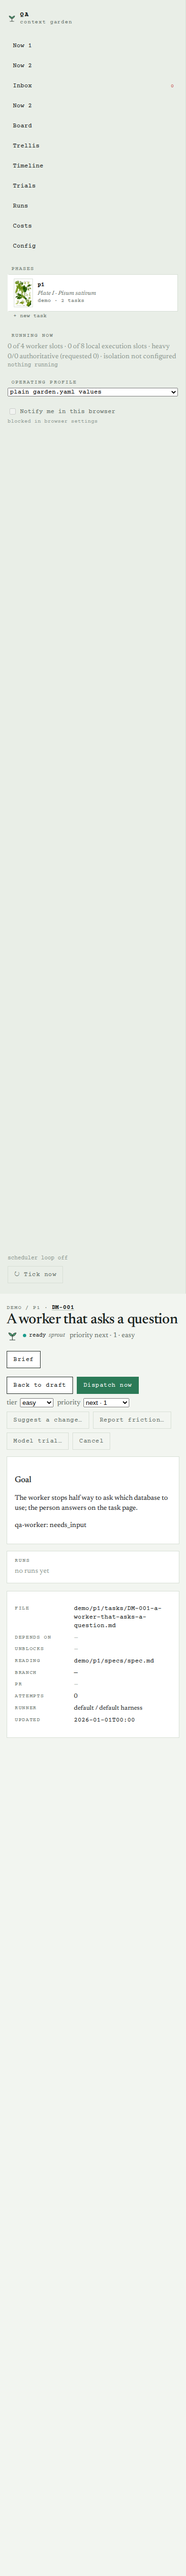
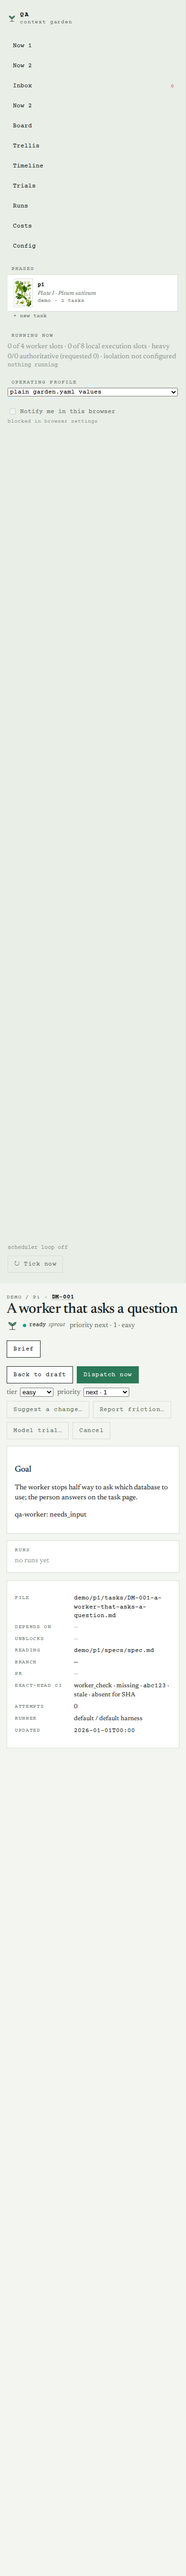
Show stale and absent exact-head status together

Changed region(s): [[0.0308, 0.4978, 0.7692, 0.6844], [0.8, 0.4978, 0.8923, 0.5289], [0.9231, 0.4978, 0.9538, 0.5289]]

diff --git a/docs/design/captures/cg-396/task.html b/docs/design/captures/cg-396/task.html
@@ -321,7 +321,7 @@ pre.log { margin:0; max-height:70vh; overflow:auto; background:var(--surface-2);
 </style>
 
 </head>
-<body class="" data-server-now="2026-09-08T15:36:17+00:00">
+<body class="" data-server-now="2026-09-08T17:08:30+00:00">
 
 <svg width="0" height="0" style="position:absolute" aria-hidden="true"><defs>
 <pattern id="hatch" patternUnits="userSpaceOnUse" width="4" height="4" patternTransform="rotate(45)"><rect width="4" height="4" fill="var(--leaf-tint)"/><line x1="0" y1="0" x2="0" y2="4" stroke="var(--hatch)" stroke-width="0.7"/></pattern>
@@ -443,20 +443,20 @@ pre.log { margin:0; max-height:70vh; overflow:auto; background:var(--surface-2);
     <a href="/trials" class="">Trials</a>
     <a href="/runs" class="">Runs</a>
     <a href="/costs" class="">Costs</a>
-    
+
     <a href="/config" class="">Config</a>
   </nav>
   <div>
     <h4>Phases</h4>
     <a class="drawer " href="/phases/demo/p1"><span class="thumb"><img src="/static/plates/pea-thumb.webp" alt="" width="38" height="58" loading="lazy"></span><span class="k"><b>p1</b><i>Plate I · Pisum sativum</i><span>demo · 2 tasks</span></span></a><a href="/phases/demo/p1#new-task" style="display:block; margin:-5px 0 8px 12px; font:11px var(--mono); color:var(--muted); text-decoration:none">+ new task</a>
-    
-    
+
+
   </div>
   <div class="rail-running">
     <h4>Running now</h4>
     <span class="faint">0 of 4 worker slots · 0 of 8 local execution slots · heavy 0/0 authoritative (requested 0) · isolation not configured</span>
-    
-    
+
+
     <div class="running-now">
       <span class="faint">nothing running</span>
     </div>
@@ -471,17 +471,17 @@ pre.log { margin:0; max-height:70vh; overflow:auto; background:var(--surface-2);
       <noscript><button type="submit" class="quiet">Switch</button></noscript>
       <span class="autosave-mark" aria-live="polite"></span>
     </form>
-    
-    
+
+
   </div>
   <div class="notify" id="notify">
     <label class="check"><input type="checkbox" id="notify-toggle"> Notify me in this browser</label>
     <span class="notify-state faint" id="notify-state"></span>
   </div>
   <div class="foot">
-    
+
     <span>scheduler loop off</span>
-    
+
     <form method="post" action="/tick"><button class="quiet" title="Reap finished workers, poll PRs, dispatch ready tasks">↻ Tick now</button></form>
   </div>
 </aside>
@@ -503,32 +503,32 @@ pre.log { margin:0; max-height:70vh; overflow:auto; background:var(--surface-2);
 
 
 <div class="actions" style="margin-bottom:14px">
-  
+
   <form class="inline" method="post" action="/tasks/DM-001/unapprove"><button>Back to draft</button></form>
   <form class="inline" method="post" action="/tasks/DM-001/dispatch"><button class="primary" >Dispatch now</button></form>
-  
-  
-  
-  
+
+
+
+
   <form class="inline" method="post" action="/tasks/DM-001/difficulty" style="display:inline-flex;gap:6px;align-items:center" title="Model tier at dispatch" data-autosave><label class="muted" for="difficulty">tier</label><select id="difficulty" name="note" onchange="this.form.requestSubmit()"><option value="easy" selected>easy</option><option value="medium">medium</option><option value="hard">hard</option></select><span class="autosave-mark" aria-live="polite"></span></form>
   <form class="inline" method="post" action="/tasks/DM-001/priority" style="display:inline-flex;gap:6px;align-items:center" title="Lower dispatches first" data-autosave><label class="muted" for="priority">priority</label><select id="priority" name="note" onchange="this.form.requestSubmit()"><option value="0">first · 0</option><option value="1" selected>next · 1</option><option value="2">normal · 2</option><option value="3">later · 3</option><option value="4">someday · 4</option></select><span class="autosave-mark" aria-live="polite"></span></form>
-  
+
 
   <button class="quiet" data-toggle="suggest-form">Suggest a change…</button>
-  
+
   <button class="quiet" data-toggle="friction-form">Report friction…</button>
-  
+
   <button class="quiet" data-toggle="trial-form">Model trial…</button>
-  
+
   <form class="inline" method="post" action="/tasks/DM-001/cancel"><button class="quiet danger">Cancel</button></form>
 </div>
 <div id="persona-form" class="panel" hidden><form method="post" action="/tasks/DM-001/persona" class="actions"><span class="muted">Personas:</span><input type="text" name="note" placeholder="security, user" style="width:260px"><button class="primary">Run persona review</button><span class="faint">available: designer, product-manager, project-manager, security, staff-engineer, usability-expert, user</span></form></div>
 <div id="trial-form" class="panel" hidden>
   <div class="eyebrow">Start a model trial</div>
-  
+
   <form method="post" action="/tasks/DM-001/trial" class="trial-form" data-trial-form data-harnesses='{"claude": ["qa-easy", "qa-medium", "qa-hard", "sonnet", "opus", "haiku", "fable", "claude-sonnet-5", "claude-opus-4-8"]}' data-default-harness="claude">
     <input type="hidden" name="note">
-    
+
     <div class="trial-rows"></div>
     <div class="actions" style="margin-top:8px"><button type="button" class="quiet trial-add">+ Add contender</button><button class="primary">Start trial</button></div>
   </form>
@@ -560,43 +560,43 @@ pre.log { margin:0; max-height:70vh; overflow:auto; background:var(--surface-2);
     <div class="panel prose"><h2>Goal</h2>
 <p>The worker stops half way to ask which database to use; the person answers on the task page.</p>
 <p>qa-worker: needs_input</p></div>
-    
-    
-    
-    
-    
-    
-    
-    
-    
-    
-    
-    
-    
+
+
+
+
+
+
+
+
+
+
+
+
+
     <div class="panel"><div class="eyebrow">Runs</div>
       <div id="runs" data-poll="/partials/tasks/DM-001/runs" data-every="5000" style="margin-top:6px"><span class="faint">no runs yet</span></div>
     </div>
-    
-    
+
+
   </div>
   <div class="stack">
     <div class="panel">
       <dl class="kv">
         <dt>file</dt><dd class="mono">demo/p1/tasks/DM-001-a-worker-that-asks-a-question.md</dd>
-        
-        
-        
-        
+
+
+
+
         <dt>depends on</dt><dd><span class="faint">—</span></dd>
         <dt>unblocks</dt><dd><span class="faint">—</span></dd>
         <dt>reading</dt><dd><span class="mono">demo/p1/specs/spec.md</span><br></dd>
         <dt>branch</dt><dd class="mono">—</dd>
         <dt>PR</dt><dd><span class="faint">—</span></dd>
-        
-        
-        
-        
-        
+
+        <dt>exact-head CI</dt><dd>worker_check · missing · <span class="mono">abc123</span> · stale · absent for SHA</dd>
+
+
+
         <dt>attempts</dt><dd>0</dd>
         <dt>runner</dt><dd>default / default harness</dd>
         <dt>updated</dt><dd class="mono">2026-01-01T00:00</dd>

diff --git a/src/garden/web/templates/task.html b/src/garden/web/templates/task.html
@@ -196,7 +196,7 @@
         <dt>branch</dt><dd class="mono">{{ task.branch or '—' }}</dd>
         <dt>PR</dt><dd>{% if task.pr %}<a href="{{ task.pr }}" target="_blank">{{ task.pr }}</a>{% if state.pr_draft %} <span class="badge">draft</span>{% endif %}{% else %}<span class="faint">—</span>{% endif %}</dd>
         {% if state.review_decision or state.checks %}<dt>review / CI</dt><dd>{{ state.review_decision or '—' }} / {{ state.checks or '—' }}{% if state.failed_checks %} ({{ state.failed_checks|join(', ') }}){% endif %}</dd>{% endif %}
-        {% if state.ci_status %}<dt>exact-head CI</dt><dd>{{ state.ci_status.provider }} · {{ state.ci_status.state }} · <span class="mono">{{ state.ci_status.queried_sha[:12] or 'head unavailable' }}</span>{% if state.ci_status.stale %} · stale{% elif not state.ci_status.exists_for_sha %} · absent for SHA{% endif %}{% if state.ci_status.evidence_url %} · <a href="{{ state.ci_status.evidence_url }}" target="_blank">evidence</a>{% endif %}</dd>{% endif %}
+        {% if state.ci_status %}<dt>exact-head CI</dt><dd>{{ state.ci_status.provider }} · {{ state.ci_status.state }} · <span class="mono">{{ state.ci_status.queried_sha[:12] or 'head unavailable' }}</span>{% if state.ci_status.stale %} · stale{% endif %}{% if not state.ci_status.exists_for_sha %} · absent for SHA{% endif %}{% if state.ci_status.evidence_url %} · <a href="{{ state.ci_status.evidence_url }}" target="_blank">evidence</a>{% endif %}</dd>{% endif %}
         {% if state.last_review %}<dt>auto review</dt><dd>{{ state.last_review.verdict.replace('_',' ') }} ({{ state.review_rounds }} round{{ 's' if state.review_rounds != 1 else '' }}){% if state.review_run %} · running{% endif %}</dd>{% endif %}
         {% if state.automerge_blocked and not task.status.terminal %}<dt>automerge</dt><dd>held: {{ state.automerge_blocked }}</dd>{% endif %}
         {% if state.automerged %}<dt>automerge</dt><dd>merged by the garden ({{ state.automerged.method }}, {{ state.automerged.review_rounds }} review round{{ 's' if state.automerged.review_rounds != 1 else '' }})</dd>{% endif %}

diff --git a/src/garden/walkthrough.py b/src/garden/walkthrough.py
@@ -852,6 +852,12 @@ def _seeded_ui_capture(out_dir: Path, pages: list[str] | None = None) -> dict[st
 
     with tempfile.TemporaryDirectory(prefix="garden-ui-") as scratch:
         garden_root = make_garden(Path(scratch))
+        state = State(garden_root / ".garden" / "state.json")
+        state.get("DM-001")["ci_status"] = {
+            "provider": "worker_check", "state": "missing", "queried_sha": "abc123",
+            "stale": True, "exists_for_sha": False, "evidence_url": "", "failures": [],
+        }
+        state.save()
         store = Store(garden_root)
         # Keep the visual fixture representative even before a worker has run: the
         # walkthrough must always give personas a real decision card to inspect.

diff --git a/tests/test_walkthrough.py b/tests/test_walkthrough.py
@@ -227,6 +227,9 @@ def test_ui_check_produces_expected_screenshot_artifacts(tmp_path, monkeypatch):
     assert (tmp_path / "ui" / "task.html").exists()
     assert "task-decision" in result["pages"]
     assert 'class="panel decision-card"' in (tmp_path / "ui" / "task-decision.html").read_text()
+    task_page = (tmp_path / "ui" / "task.html").read_text()
+    assert "exact-head CI" in task_page
+    assert "stale" in task_page and "absent for SHA" in task_page
     for slug in ("now", "inbox", "board", "task"):
         for width in VIEWPORTS:
             for scheme in COLOR_SCHEMES:

diff --git a/tests/test_web.py b/tests/test_web.py
@@ -323,7 +323,7 @@ def test_task_page_shows_exact_head_ci_freshness_and_absence(garden):
     page = client(garden).get("/tasks/DM-001").text
     assert "exact-head CI" in page
     assert "worker_check · mismatched" in page
-    assert "abc123" in page and "stale" in page
+    assert "abc123" in page and "stale" in page and "absent for SHA" in page
 
 
 def test_operator_owned_scope_is_recorded_from_the_inbox(garden):
